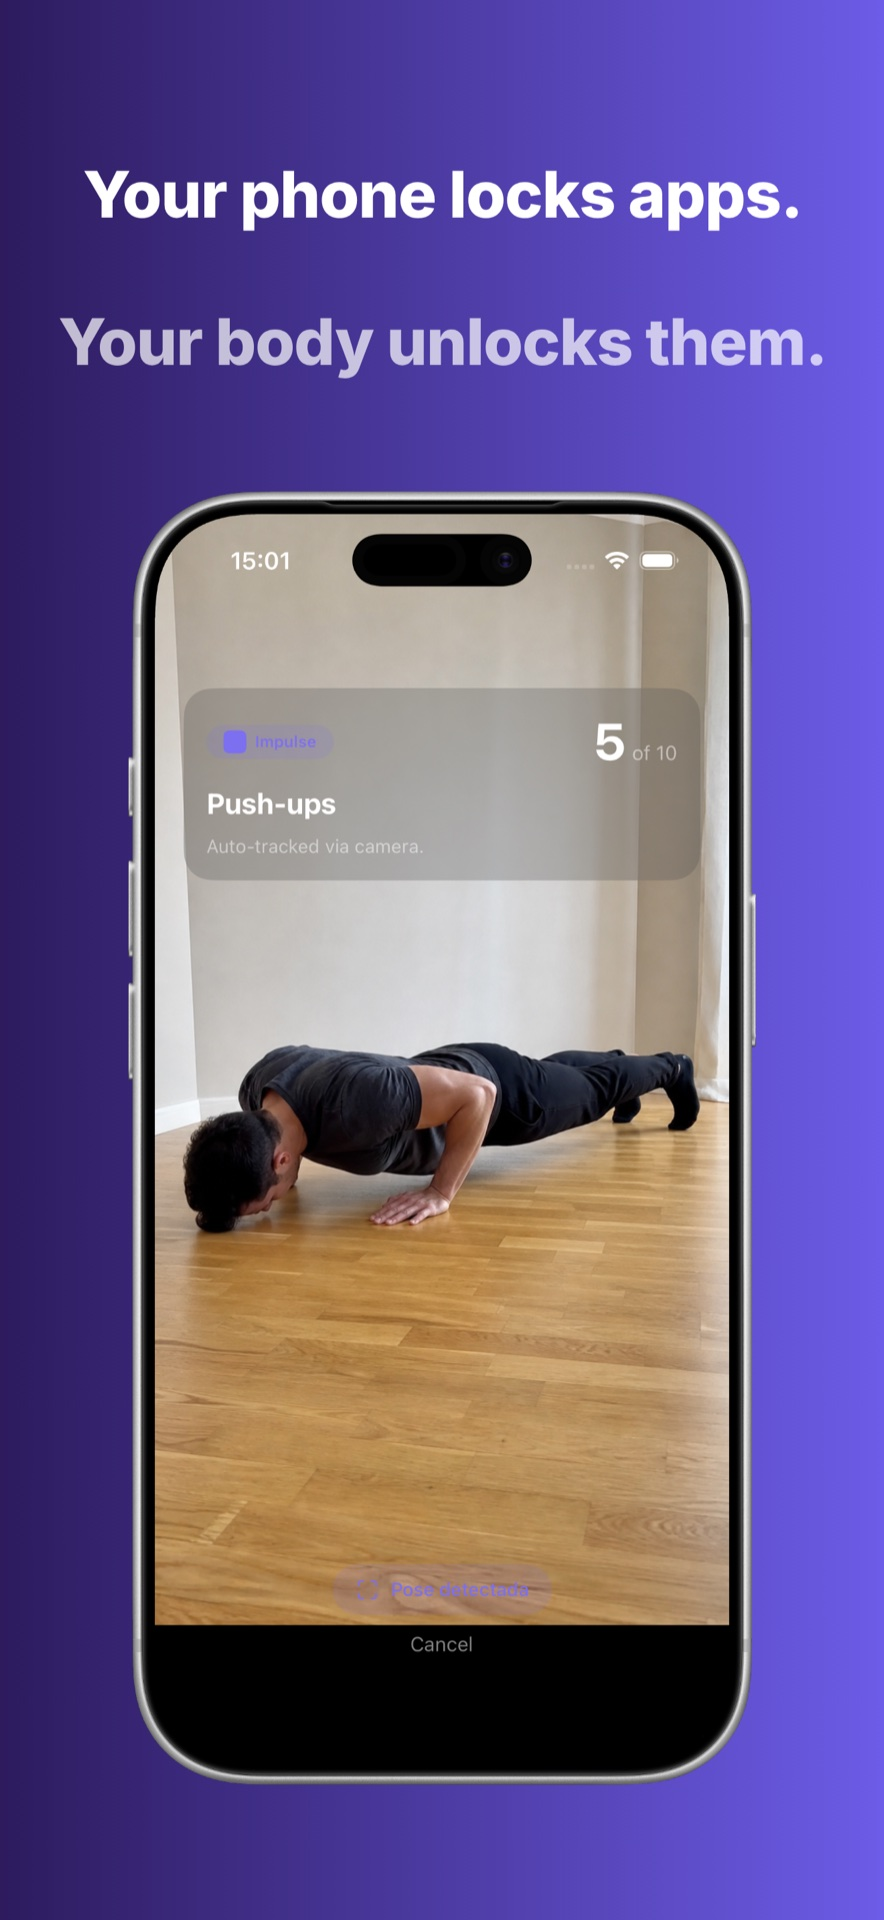
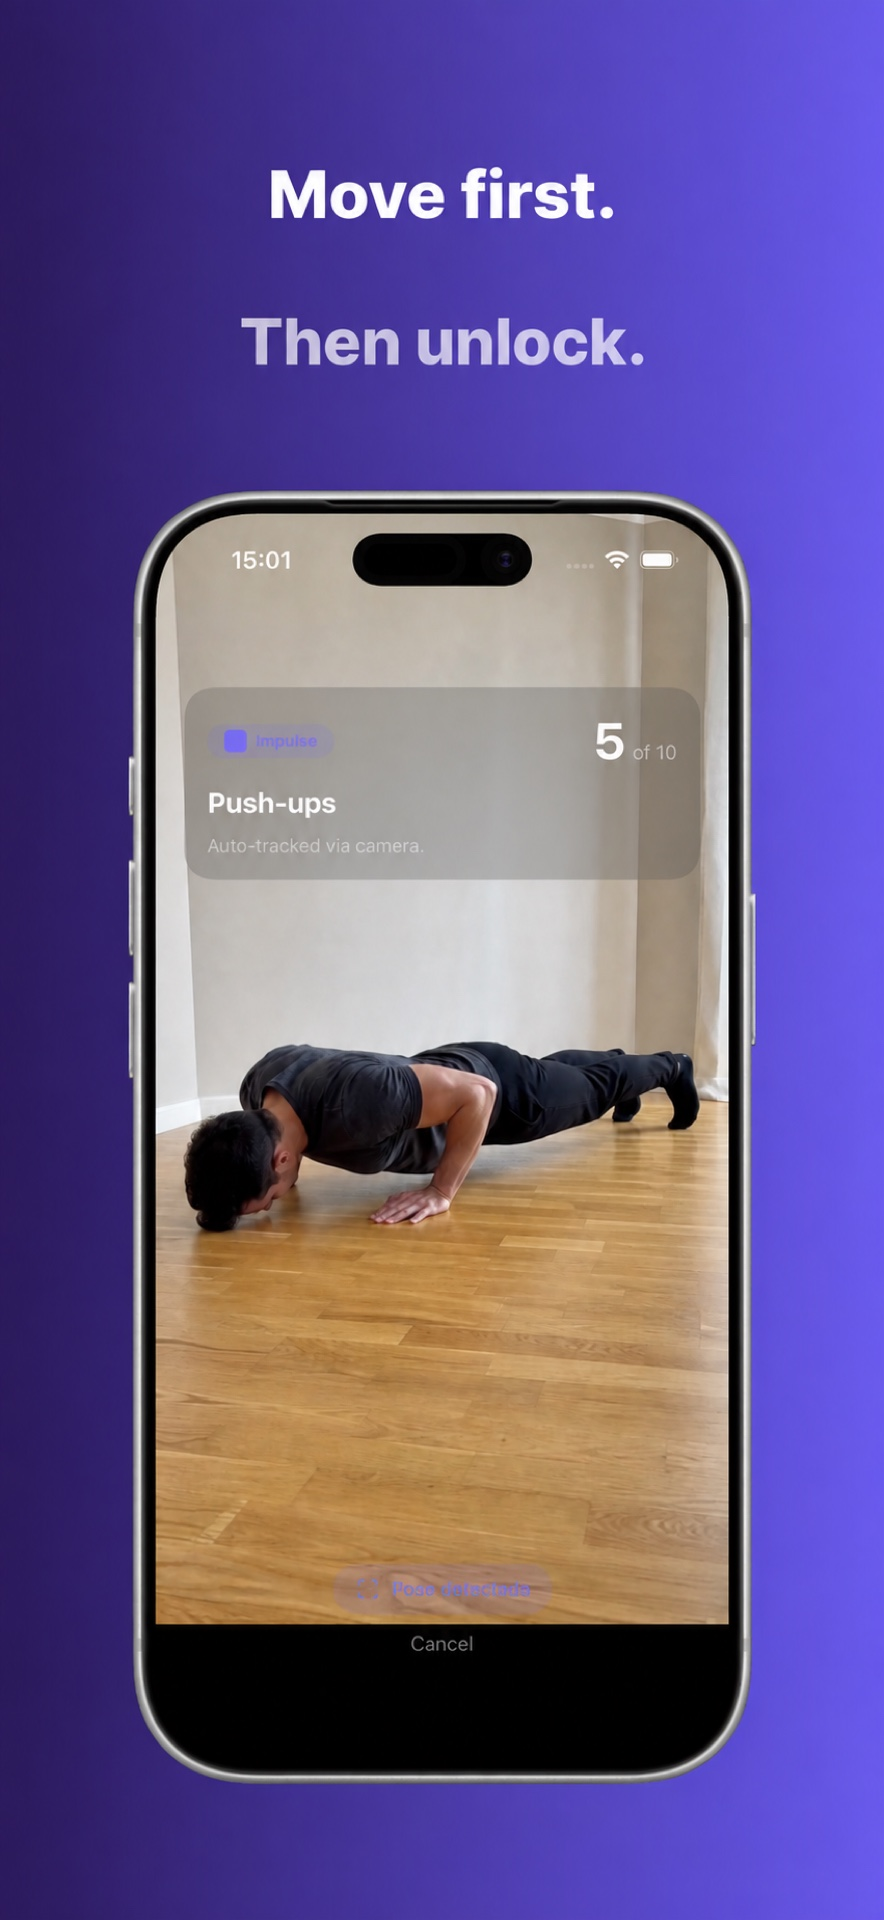
Differentiate Impulse push-up screenshot copy

diff --git a/index.html b/index.html
@@ -15,8 +15,8 @@
   <meta name="twitter:description" content="Modern Swift, Apple Intelligence and agentic development. Explore Impulse and the new PlayFit 4.0.">
   <meta name="twitter:image" content="https://albertvc10.github.io/images/og-card.png">
   <title>Albert Villanueva — iOS Engineer &amp; Product Builder</title>
-  <link rel="stylesheet" href="styles.css?v=20260915-11">
-  <script src="script.js?v=20260915-11" defer></script>
+  <link rel="stylesheet" href="styles.css?v=20260915-12">
+  <script src="script.js?v=20260915-12" defer></script>
 </head>
 
 <body>
@@ -104,7 +104,7 @@
           <div class="glow-orb" aria-hidden="true"></div>
           <img class="phone impulse-one localised-screen" src="images/impulse-screen-1-en.jpg" data-src-en="images/impulse-screen-1-en.jpg" data-src-es="images/impulse-screen-1.jpg" alt="Impulse focus protection screen">
           <img class="phone impulse-two localised-screen" src="images/impulse-screen-2-en.jpg" data-src-en="images/impulse-screen-2-en.jpg" data-src-es="images/impulse-screen-2.jpg" alt="Impulse unlock options">
-          <img class="phone impulse-three localised-screen" src="images/impulse-screen-pushups-en.jpg" data-src-en="images/impulse-screen-pushups-en.jpg" data-src-es="images/impulse-screen-pushups-es.jpg" alt="Impulse camera-based push-up unlock">
+          <img class="phone impulse-three localised-screen" src="images/impulse-screen-pushups-en.jpg?v=2" data-src-en="images/impulse-screen-pushups-en.jpg?v=2" data-src-es="images/impulse-screen-pushups-es.jpg?v=2" alt="Impulse camera-based push-up unlock">
           <span class="gallery-note" data-i18n-html="impulseNote">Less thumb.<br>More body.</span>
         </div>
       </article>
